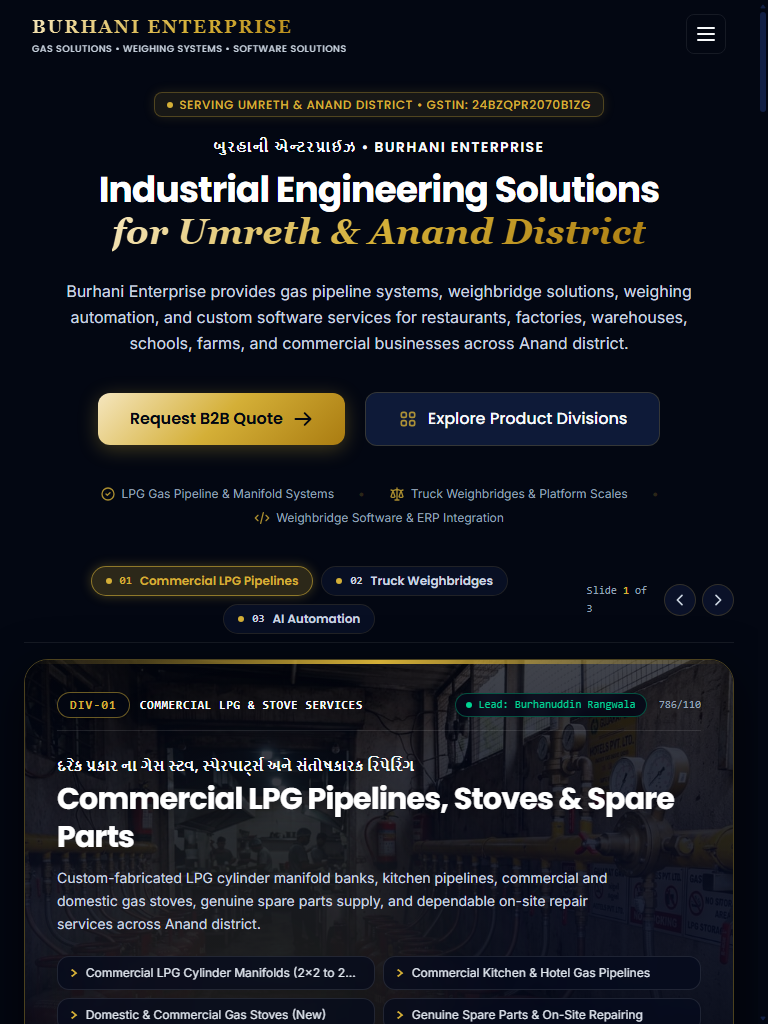
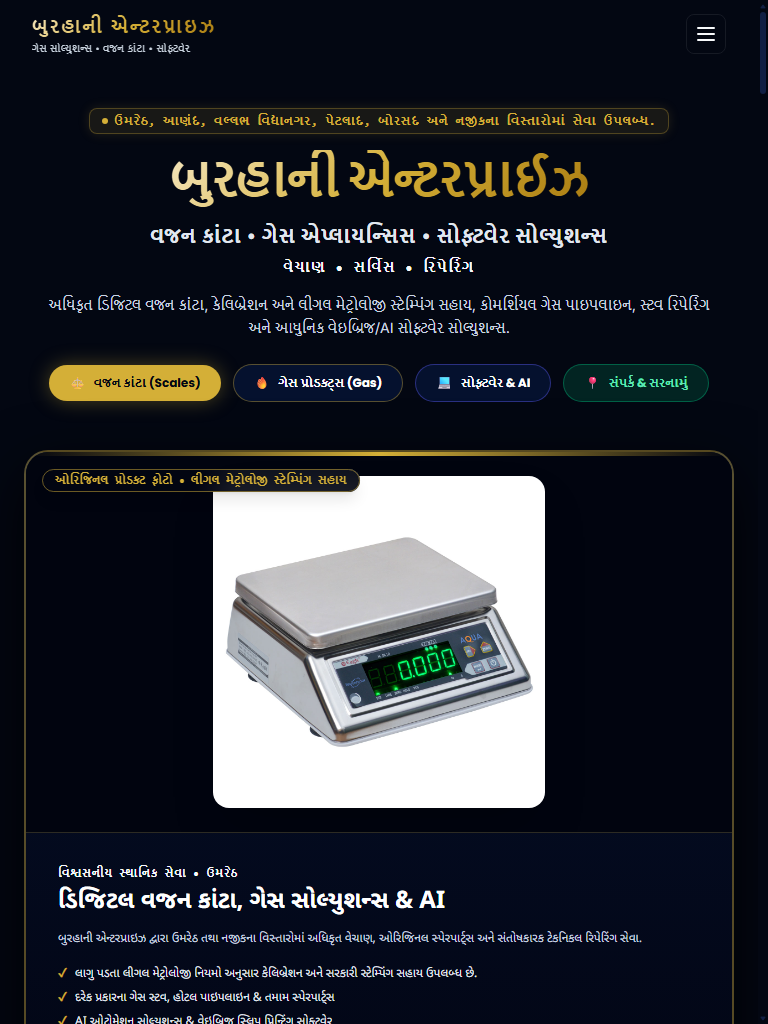
BE-006.2B: Correct business wording and contact information

diff --git a/src/data/business.ts b/src/data/business.ts
@@ -52,7 +52,8 @@ export const businessProfile: BusinessProfile = {
   traditionalCode: '',
   tagline: 'Gas Solutions, Weighing Systems & Software',
   subtitle: 'Gas Solutions • Weighing Solutions • Software Solutions',
-  serviceArea: 'Umreth',
+  serviceArea:
+    'Serving Umreth, Anand, Vallabh Vidyanagar, Petlad, Borsad and nearby areas in Anand District.',
   authorizedWeighingBrands: [
     'Rolex Weighing Scale',
     'Axpert (ISI Certified)',
@@ -66,9 +67,9 @@ export const businessProfile: BusinessProfile = {
       defaultMessage: whatsappDefaultMessage,
       url: `https://wa.me/${primaryPhoneDigits}?text=${encodeURIComponent(whatsappDefaultMessage)}`,
     },
-    email: 'hello@burhanienterprise.me',
+    email: 'contact@burhanienterprise.com',
     phone: '+91 99984 50711',
-    address: 'Lokhand Bazar, infront of Old post office, Nr. kansara bazar, Umreth',
+    address: 'Lokhand Bazar, infront of Old post office, Nr. kansara bazar, Umreth, Anand District, Gujarat',
   },
   divisionContacts: {
     gas: {
@@ -93,11 +94,11 @@ export const businessProfile: BusinessProfile = {
       role: 'Weighing Systems & Calibration Lead',
       gujaratiRole: 'ડિજિટલ વજન કાંટા અને વેઇબ્રિજ',
       tagline: 'WEIGHBRIDGES • SCALES • CALIBRATION',
-      whatsappUrl: `https://wa.me/919974164452?text=${encodeURIComponent('Hello Hozefa, I would like to inquire about Weighing Scales and Government Stamping.')}`,
+      whatsappUrl: `https://wa.me/919974164452?text=${encodeURIComponent('Hello Hozefa, I would like to inquire about Weighing Scales, Calibration, and Legal Metrology Stamping Assistance.')}`,
       services: [
         'Digital Platform & Counter Bench Scales',
         'Heavy-Duty Truck Weighbridges (20T-120T)',
-        'Government Approved Stamping (સરકાર માન્ય)',
+        'Calibration & Stamping Assistance (Legal Metrology)',
         'Authorized: Rolex, Axpert, Taj, Silver Eagle',
       ],
     },
